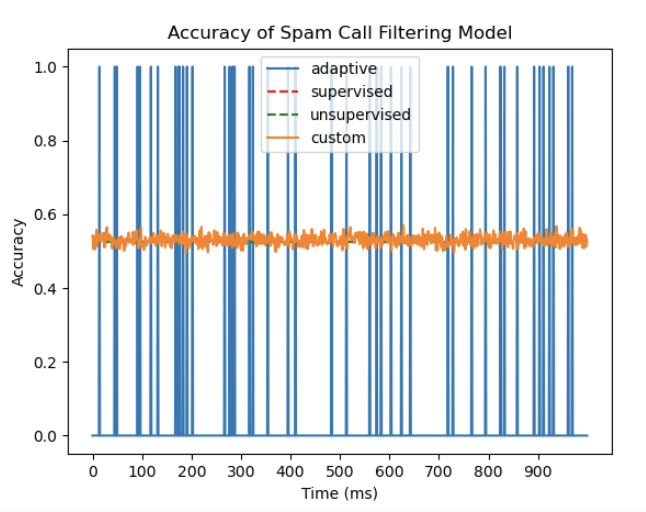
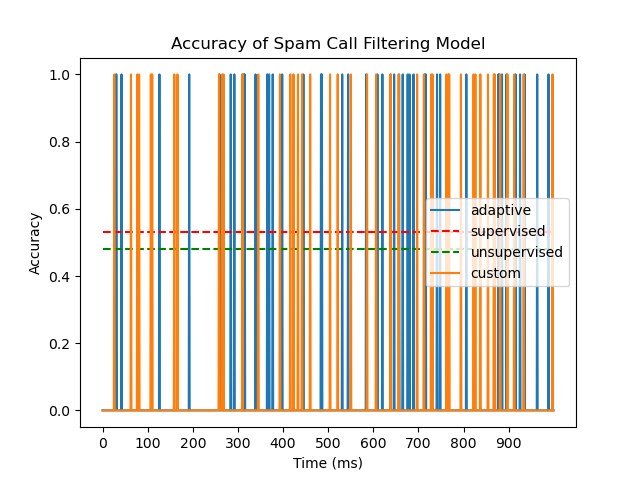
c

diff --git a/research-spam/main_custom2.py b/research-spam/main_custom2.py
@@ -46,7 +46,7 @@ accuracy_adaptive = filter.evaluate_adaptive(state_spaces)
 print("Adaptive AI Accuracy:", accuracy_adaptive)
 
 ## custom system
-
+print("Generating custom system model...")
 # Create a line graph of the accuracy over time for the new model
 # feature_vector - size 1x5
 # feature_matrix - size nx5, n feature_vector elements in feature_matrix
@@ -54,14 +54,32 @@ accuracy_over_time = [] # expecting n data points in time, i.e. array of size n
 detector = SpamCallDetector(n_clusters=3)
 data = detector.generate_data(1000)
 X = detector.data_preprocessing(data)
+# Define the minimum and maximum values for each feature
+a_min, a_max = -1, 0.3
+b_min, b_max = -1, 0.5
+c_min, c_max = 10.0, 50.0
+d_min, d_max = -120.0, -70.0
+e_min, e_max = -3.0, 0.3
+y = 0
+y_tot = np.zeros(len(X)) # Initialize y_tot as an array of zeros with the same length as X
+for i, feature_vector in enumerate(X):
+    print("feat: ", feature_vector)
+    if (feature_vector[0] >= a_min and feature_vector[0] <= a_max) or (feature_vector[1] >= b_min and feature_vector[1] <= b_max) or (feature_vector[2] >= c_min and feature_vector[2] <= c_max) or (feature_vector[3] >= d_min and feature_vector[3] <= d_max) or (feature_vector[4] >= e_min and feature_vector[4] <= e_max):
+        y_tot[i] = 1  # set the i-th element of y_tot to 1 if the feature vector meets the threshold conditions
+print(y_tot, type(y_tot))
+detector.supervised_learning(X, y_tot)
+detector.unsupervised_learning(X)
 for feature_vector in X:
-    print("Generating custom system model...")
-    y = np.random.randint(2, size=len(X)) # randomizing to better suit the use case
-    detector.supervised_learning(X, y)
-    detector.unsupervised_learning(X)
-    detector.adaptive_learning(X, y)
-    preds = detector.integration(X)
-    accuracy = detector.evaluate_accuracy(X, y)
+    if (feature_vector[0] >= a_min and feature_vector[0] <= a_max) and (feature_vector[1] >= b_min and feature_vector[1] <= b_max) and (feature_vector[2] >= c_min and feature_vector[2] <= c_max) and (feature_vector[3] >= d_min and feature_vector[3] <= d_max) and (feature_vector[4] >= e_min and feature_vector[4] <= e_max):
+        y = np.array([1])  # convert y to a 1D numpy array
+    else:
+        y = np.array([0])  # convert y to a 1D numpy array of zeros
+    # Reshape feature vector to a 2D array with one row
+    feature_vector = feature_vector.reshape(1, -1)
+    print(feature_vector, type(feature_vector[0]))
+    detector.adaptive_learning(feature_vector, y)
+    preds = detector.integration(feature_vector)
+    accuracy = detector.evaluate_accuracy(feature_vector, y)
     accuracy_over_time.append(accuracy)
 
 print("My System Accuracy: ", accuracy_over_time)
